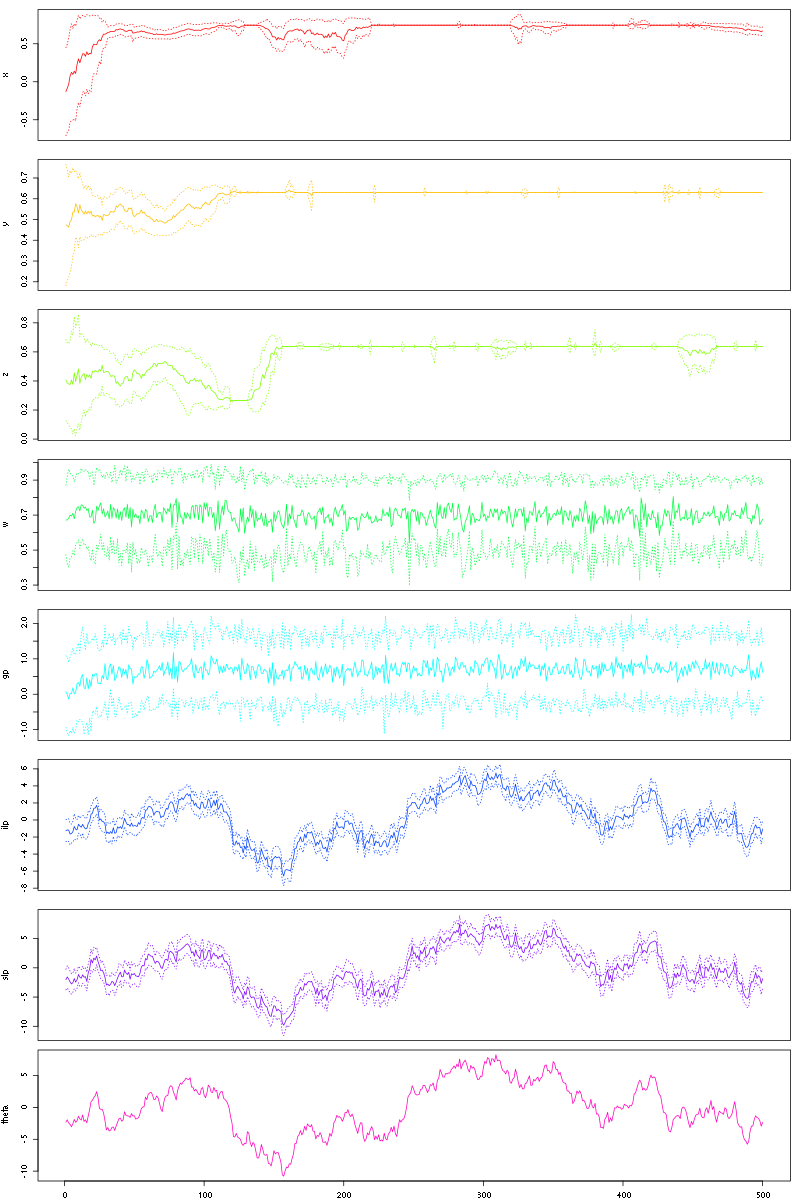
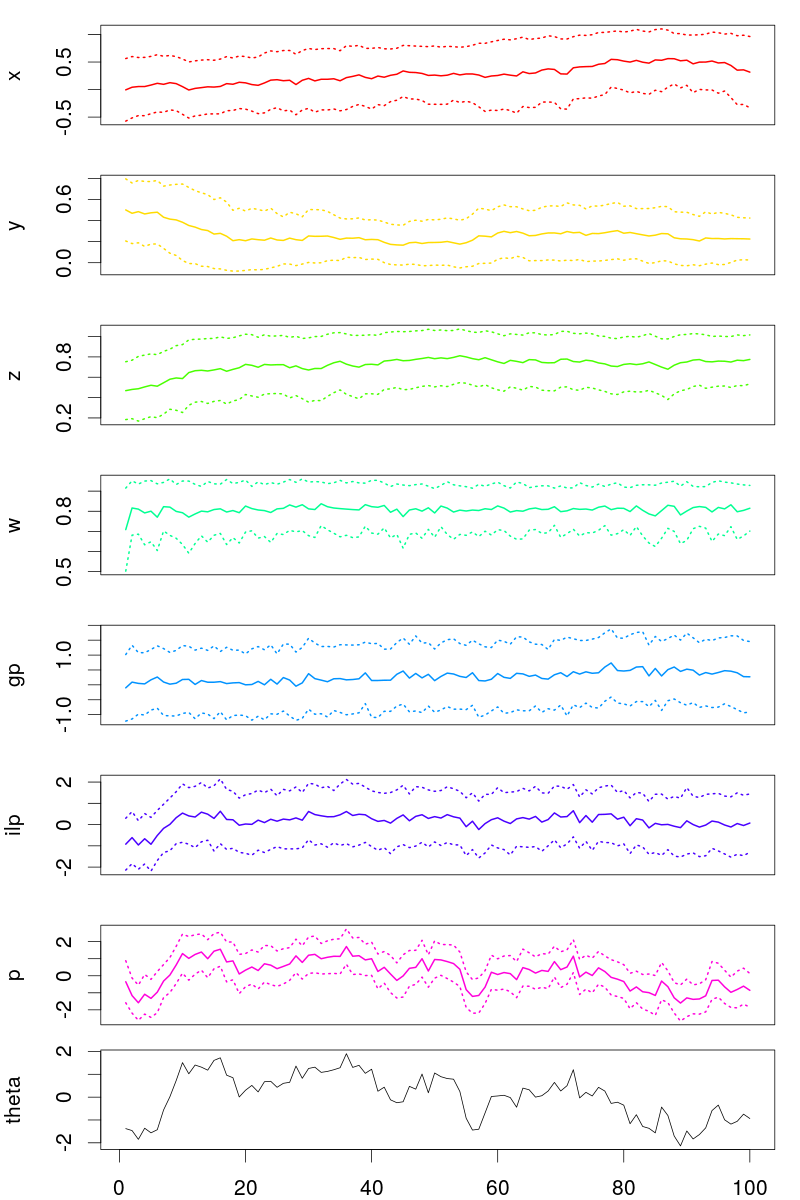
add new graphs to the README.md

diff --git a/README.md b/README.md
@@ -32,7 +32,7 @@ n=100
 tstep=500
 
 #run the simulation
-test=simpleEvoModel(n = 100,tstep = 500,omega = 2,delta = 4 ,b = 2,K = 200,mu=0.001,epsilon = epsilon,sigma = sigma)
+test=simpleEvoModel(n,tstep,omega = 1.5,delta = 1 ,b=2,K=500,mu=c(x=0.01,y=0.01,z=0.01),epsilon=c(x=1,y=1,z=1),sigma=c(s=2,y=2,z=2),log=T,type="best")
 ```
 
 For know in the resulting list (here `test`), I return all the populations for all time steps. This is for now, to check if everything is good and how the different variables of interest (x,y,z,...) are distributed. Some summaries statistics are also available in `test$meanw`, `test$popsize`,... 
@@ -56,12 +56,26 @@ meansdz=sapply(test$allpop,function(i)c(sd(i[["z"]]),mean(i[["z"]])))
 ```
 
 
-To plot mean and sd for all variables + theta from the output of `bsimpleEvoModel`
+To plot mean and sd for all variables + theta from the output of `simpleEvoModel`
 ```R
 test=simpleEvoModel(n = 1000,tstep = 500,omega = 2,delta = 4 ,b = 2,K = 200,mu=0.001,epsilon = c(x=1,y=1,z=1),sigma = c(s=2,y=2,z=2),m=c(x=.3,y=.3,z=.3),type = "best")
 plotAllVariable(test)
 ```
 ![value of allgenes](images/all.png)
+
+I also like to plot the full distribution using High Density region in order to see multi modal distributions:
+
+```R
+plotAllVariable(test,hdr=T)
+```
+
+![hdr of allgenes](images/all_hdr.png)
+
+
+Now we compare theta (environment), p (mature phenotype) and w (fitness):
+
+![comparing different variable](images/comparisons.png)
+
 
 
 ## Check environment 
@@ -129,3 +143,36 @@ osnds_rand=parSapply(cl,omegas,function(o)sapply(deltas,function(d){print(paste(
 
 ### Select random individual
 ![rand](images/bigrand.png)
+
+####
+
+png("allvariables.png",pointsize = 14,width=800,height=1200)
+plotAllVariable(t)
+dev.off()
+
+png("allvariables_HDR.png",pointsize = 14,width=800,height=1200)
+par(cex=2)
+plotAllVariable(t,hdr=T)
+dev.off()
+
+png("comparisons.png",pointsize = 14,width=600,height=800)
+par(mfrow=c(2,1),cex=1.2)
+par(mar=c(2,4,2,4))
+plot(sapply(1:tstep,function(it)mean(t$allpop[[it]]$p)),type="l",ylim=range(sapply(t$allpop,"[[","p")),ylab="p",main="Phenotype and theta",bty="n",)
+lines(sapply(1:tstep,function(it)mean(t$allpop[[it]]$p)+sd(t$allpop[[it]]$p)),lty=3)
+lines(sapply(1:tstep,function(it)mean(t$allpop[[it]]$p)-sd(t$allpop[[it]]$p)),lty=3)
+par(new=T)
+plot(t$env,type="l",col="blue",yaxt="n",xaxt="n",ylim=range(sapply(t$allpop,"[[","p")),ylab="",bty="n",)
+axis(4,col="blue",col.axis="blue")
+mtext(expression(theta),4,2,col="blue")
+
+plot( sapply(1:tstep,function(it)mean(abs(t$allpop[[it]]$p-t$env[it]))),ylim=range(sapply(1:tstep,function(it)range(abs(t$allpop[[it]]$p-t$env[it])))),ylab=expression(group("|",theta - p,"|")),bty="n",type="l",main="Distance to theta and fitness")
+lines(sapply(2:tstep,function(it)mean(abs(t$allpop[[it]]$p-t$env[it]))+sd(abs(t$allpop[[it]]$p-t$env[it]))),lty=3)
+lines(sapply(1:tstep,function(it)mean(abs(t$allpop[[it]]$p-t$env[it]))-sd(abs(t$allpop[[it]]$p-t$env[it]))),lty=3)
+par(new=T)
+plot( sapply(1:tstep,function(it)mean(t$allpop[[it]]$w)),ylim=range(sapply(t$allpop,"[[","w")),type="l",col="red",yaxt="n",xaxt="n",bty="n",ylab="")
+lines(sapply(1:tstep,function(it)mean(t$allpop[[it]]$w)+sd(t$allpop[[it]]$w)),col="red",lty=3)
+lines(sapply(1:tstep,function(it)mean(t$allpop[[it]]$w)-sd(t$allpop[[it]]$w)),col="red",lty=3)
+axis(4,col="red",col.axis="red")
+mtext("w",4,2,col="red")
+dev.off()
